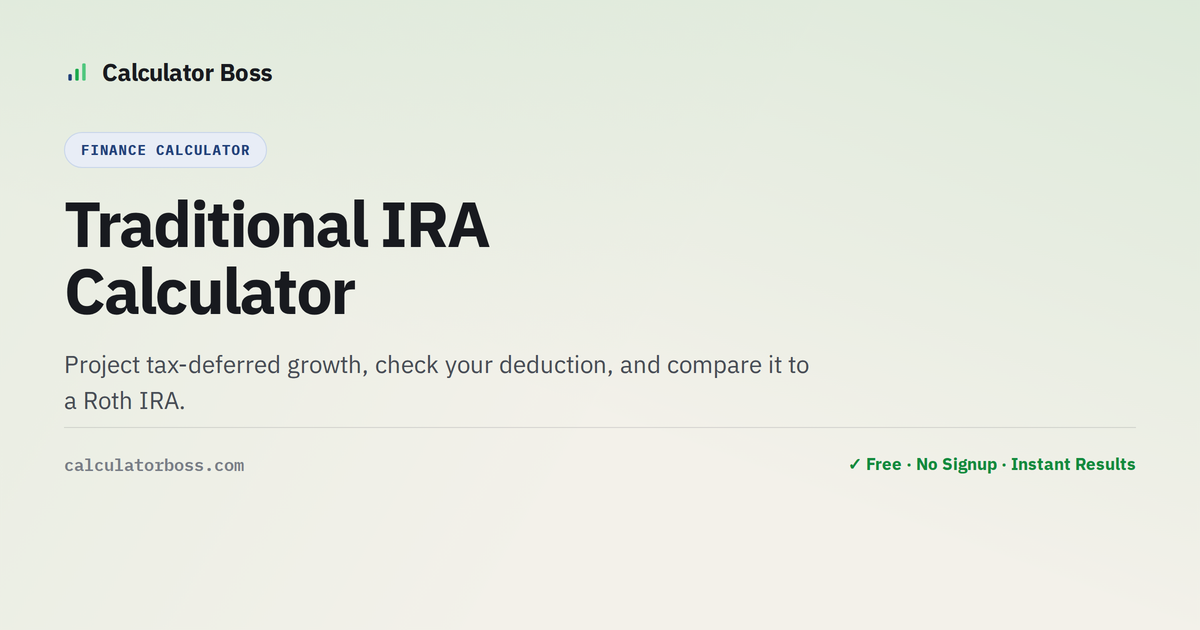
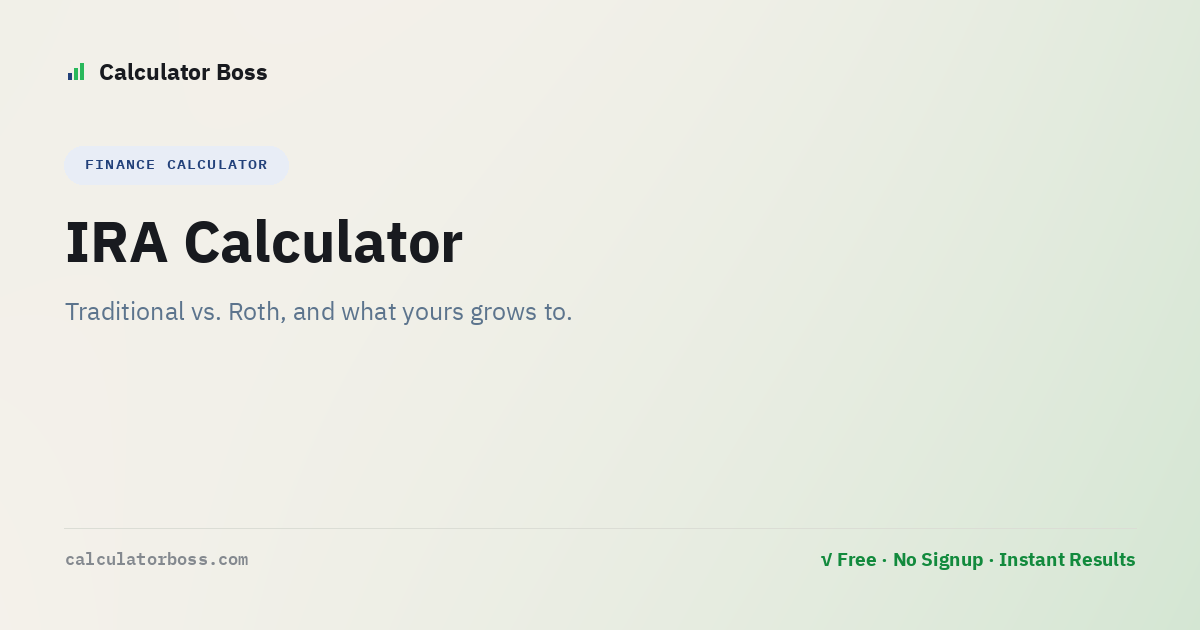
IRA Calculator: settle the naming, which was inconsistent in five places
The page itself checks out - protected block byte-identical, tags balanced,
three valid schema blocks, FAQ 6/6 exact, both tabs computing, zero console
errors and no overflow on desktop and mobile, jsPDF still lazy.

But the name was not consistent. The URL is /ira-calculator/, the search
index said 'IRA Calculator', the title, H1 and visible breadcrumb said
'Traditional IRA Calculator', the BreadcrumbList schema said just 'IRA', and
llms.txt said 'Traditional IRA Calculator'.

Settled on 'IRA Calculator'. calculator.net names this same slug that way and
keeps a separate Roth page, matching this site's structure; the URL and the
search index already used it; and the page covers both account types across
its two tabs, so 'Traditional' understated it and clashed with the pending
/roth-ira-calculator/ page. The title blends all three terms rather than
picking one, and drops from 72 to 62 characters, which Google was truncating.

Renamed in title, og:title, twitter:title, H1, visible breadcrumb,
BreadcrumbList schema, WebApplication name and description, the PDF header
and llms.txt. The visible and schema breadcrumbs now match exactly - that
mismatch is the same class of defect the guide flags for FAQPage and it is
worth checking on BreadcrumbList too. Schema also gains dateModified,
inLanguage, publisher and featureList. New OG image.

diff --git a/ira-calculator/index.html b/ira-calculator/index.html
@@ -7,7 +7,7 @@
 
   gtag('config', 'G-6S04GMEMEJ');
 </script>
-<meta charSet="utf-8"/><link rel="preconnect" href="/" crossorigin=""/><meta name="viewport" content="width=device-width, initial-scale=1"/><title>Traditional IRA Calculator — Project Your Tax-Deferred Retirement Growth</title><meta name="description" content="See how your Traditional IRA grows tax-deferred, check your 2026 deduction eligibility, and compare it to a Roth IRA side by side. Free, instant, no signup."/><meta name="author" content="CalculatorBoss"/><meta name="keywords" content="traditional ira calculator,ira calculator,ira contribution calculator,ira deduction calculator,traditional vs roth ira calculator,ira growth calculator"/><meta name="creator" content="CalculatorBoss"/><meta name="publisher" content="CalculatorBoss"/><meta name="robots" content="index, follow"/><meta name="googlebot" content="index, follow, max-video-preview:-1, max-image-preview:large, max-snippet:-1"/><link rel="canonical" href="https://calculatorboss.com/ira-calculator/"/><meta property="og:title" content="Traditional IRA Calculator — Project Your Tax-Deferred Retirement Growth"/><meta property="og:description" content="See how your Traditional IRA grows tax-deferred, check your 2026 deduction eligibility, and compare it to a Roth IRA side by side. Free, instant, no signup."/><meta property="og:url" content="https://calculatorboss.com/ira-calculator/"/><meta property="og:type" content="website"/><meta property="og:image" content="https://calculatorboss.com/og/ira-calculator.png"/><meta property="og:image:width" content="1200"/><meta property="og:image:height" content="630"/><meta name="twitter:card" content="summary_large_image"/><meta name="twitter:title" content="Traditional IRA Calculator — Project Your Tax-Deferred Retirement Growth"/><meta name="twitter:description" content="See how your Traditional IRA grows tax-deferred, check your 2026 deduction eligibility, and compare it to a Roth IRA side by side. Free, instant, no signup."/><link rel="icon" href="/favicon.svg" type="image/svg+xml"><link rel="icon" href="/favicon.ico" sizes="any"><link rel="apple-touch-icon" href="/favicon-180.png"><link rel="stylesheet" href="/_next/static/chunks/27gnqssi3_kmiv2.css" data-precedence="next"/><link rel="preload" as="script" fetchPriority="low" href="/_next/static/chunks/36m08sdd6fi_4.js"/><link rel="preconnect" href="https://fonts.gstatic.com" crossorigin>
+<meta charSet="utf-8"/><link rel="preconnect" href="/" crossorigin=""/><meta name="viewport" content="width=device-width, initial-scale=1"/><title>IRA Calculator — Traditional vs. Roth, and What Yours Grows To</title><meta name="description" content="Free IRA calculator: project tax-deferred growth to retirement, check your 2026 deduction eligibility, and compare Traditional vs. Roth side by side."/><meta name="author" content="CalculatorBoss"/><meta name="keywords" content="traditional ira calculator,ira calculator,ira contribution calculator,ira deduction calculator,traditional vs roth ira calculator,ira growth calculator"/><meta name="creator" content="CalculatorBoss"/><meta name="publisher" content="CalculatorBoss"/><meta name="robots" content="index, follow"/><meta name="googlebot" content="index, follow, max-video-preview:-1, max-image-preview:large, max-snippet:-1"/><link rel="canonical" href="https://calculatorboss.com/ira-calculator/"/><meta property="og:title" content="IRA Calculator — Traditional vs. Roth, and What Yours Grows To"/><meta property="og:description" content="Free IRA calculator: project tax-deferred growth to retirement, check your 2026 deduction eligibility, and compare Traditional vs. Roth side by side."/><meta property="og:url" content="https://calculatorboss.com/ira-calculator/"/><meta property="og:type" content="website"/><meta property="og:image" content="https://calculatorboss.com/og/ira-calculator.png"/><meta property="og:image:width" content="1200"/><meta property="og:image:height" content="630"/><meta name="twitter:card" content="summary_large_image"/><meta name="twitter:title" content="IRA Calculator — Traditional vs. Roth, and What Yours Grows To"/><meta name="twitter:description" content="Free IRA calculator: project tax-deferred growth to retirement, check your 2026 deduction eligibility, and compare Traditional vs. Roth side by side."/><link rel="icon" href="/favicon.svg" type="image/svg+xml"><link rel="icon" href="/favicon.ico" sizes="any"><link rel="apple-touch-icon" href="/favicon-180.png"><link rel="stylesheet" href="/_next/static/chunks/27gnqssi3_kmiv2.css" data-precedence="next"/><link rel="preload" as="script" fetchPriority="low" href="/_next/static/chunks/36m08sdd6fi_4.js"/><link rel="preconnect" href="https://fonts.gstatic.com" crossorigin>
 <link href="https://fonts.googleapis.com/css2?family=IBM+Plex+Sans:wght@400;500;600;700&family=IBM+Plex+Mono:wght@400;500;600;700&display=swap" rel="stylesheet">
 <style>
   /* ============================================================
@@ -275,7 +275,7 @@
   }
   @media(prefers-reduced-motion:reduce){*{animation:none!important;transition:none!important}.reveal{opacity:1;transform:none}}
 </style>
-<script type="application/ld+json">{"@context":"https://schema.org","@type":"BreadcrumbList","itemListElement":[{"@type":"ListItem","position":1,"name":"Home","item":"https://calculatorboss.com/"},{"@type":"ListItem","position":2,"name":"Finance","item":"https://calculatorboss.com/all-calculators/"},{"@type":"ListItem","position":3,"name":"IRA","item":"https://calculatorboss.com/ira-calculator/"}]}</script></head><body class="min-h-full flex flex-col antialiased" style="background:var(--bg)"><div hidden=""><!--$--><!--/$--></div><header>
+<script type="application/ld+json">{"@context":"https://schema.org","@type":"BreadcrumbList","itemListElement":[{"@type":"ListItem","position":1,"name":"Home","item":"https://calculatorboss.com/"},{"@type":"ListItem","position":2,"name":"Finance","item":"https://calculatorboss.com/all-calculators/"},{"@type":"ListItem","position":3,"name":"IRA Calculator","item":"https://calculatorboss.com/ira-calculator/"}]}</script></head><body class="min-h-full flex flex-col antialiased" style="background:var(--bg)"><div hidden=""><!--$--><!--/$--></div><header>
   <div class="wrap nav">
     <a class="brand" href="/">
       <span class="logo">
@@ -349,7 +349,7 @@
     window.addEventListener('resize', function(){ if(window.innerWidth > 900 && isOpen()) closeMenu(); });
   })();
   </script>
-</header><main class="flex-1" role="main"><div class="px-4 sm:px-6 py-5 sm:py-6 mx-auto" style="max-width:1160px"><script type="application/ld+json">{"@context":"https://schema.org","@type":"FAQPage","mainEntity":[{"@type":"Question","name":"What's the 2026 IRA contribution limit?","acceptedAnswer":{"@type":"Answer","text":"$7,500 for 2026, or $8,600 including the $1,100 catch-up if you're 50 or older. This is a combined limit across all your Traditional and Roth IRAs together, not a separate limit for each."}},{"@type":"Question","name":"Are Traditional IRA contributions always tax-deductible?","acceptedAnswer":{"@type":"Answer","text":"Not always. If neither you nor your spouse has access to a workplace retirement plan, your contribution is fully deductible no matter your income. If you (or your spouse) are covered by a workplace plan, the deduction phases out over a specific income range that depends on your filing status — above that range you can still contribute, just without the deduction."}},{"@type":"Question","name":"What's the difference between a Traditional IRA and a 401(k)?","acceptedAnswer":{"@type":"Answer","text":"A 401(k) is employer-sponsored, has a much higher contribution limit ($24,500 for 2026), and its investment menu is chosen by your employer. A Traditional IRA is opened independently at any broker, has a lower contribution limit, but usually offers far more investment choice — and the two aren't mutually exclusive; many people use both."}},{"@type":"Question","name":"Traditional IRA or Roth IRA — which is better for me?","acceptedAnswer":{"@type":"Answer","text":"It comes down to whether your tax rate is higher today or is likely to be higher in retirement. If you expect to be in a lower tax bracket in retirement than you are now, Traditional generally comes out ahead. If you expect a similar or higher bracket in retirement, Roth generally wins. Since nobody can know future tax law with certainty, many people split contributions between both to hedge that risk."}},{"@type":"Question","name":"What happens when I withdraw from a Traditional IRA in retirement?","acceptedAnswer":{"@type":"Answer","text":"Withdrawals are taxed as ordinary income, since the contributions (if deducted) and all the growth along the way were never taxed. This is different from a Roth IRA, where qualified withdrawals are entirely tax-free."}},{"@type":"Question","name":"When do I have to start taking money out (RMDs)?","acceptedAnswer":{"@type":"Answer","text":"Required Minimum Distributions start at age 73 if you were born between 1951 and 1959, or age 75 if you were born in 1960 or later. The amount is your prior year-end balance divided by an IRS life-expectancy divisor that shrinks every year, so the required percentage rises with age. Roth IRAs have no RMDs during the original owner's lifetime."}}]}</script><script type="application/ld+json">{"@context":"https://schema.org","@type":"WebApplication","name":"Traditional IRA Calculator","url":"https://calculatorboss.com/ira-calculator","applicationCategory":"FinanceApplication","operatingSystem":"Any","offers":{"@type":"Offer","price":"0","priceCurrency":"USD"},"description":"Free Traditional IRA calculator that projects tax-deferred growth to retirement, checks 2026 deduction eligibility by income and filing status, and compares after-tax outcomes against a Roth IRA."}</script><style>.crumb{display:flex;align-items:center;gap:8px;font-size:12.5px;color:var(--muted);margin:0 0 10px;flex-wrap:wrap}.crumb a{color:var(--muted);transition:.2s}.crumb a:hover{color:var(--ink)}.crumb .sep{color:var(--ink-faint)}.crumb .cur{color:var(--ink-soft);font-weight:500}</style><nav class="crumb" aria-label="Breadcrumb"><a href="/">Home</a><span class="sep">/</span><a href="/all-calculators/#fin">Finance</a><span class="sep">/</span><span class="cur">Traditional IRA Calculator</span></nav><h1 class="font-display font-bold text-3xl sm:text-4xl tracking-tight text-ink mb-3">Traditional IRA Calculator</h1><p class="text-ink-soft text-lg max-w-2xl mb-6">Project tax-deferred growth to retirement, check this year's deduction eligibility, and see how a Traditional IRA stacks up against a Roth.</p><style>
+</header><main class="flex-1" role="main"><div class="px-4 sm:px-6 py-5 sm:py-6 mx-auto" style="max-width:1160px"><script type="application/ld+json">{"@context":"https://schema.org","@type":"FAQPage","mainEntity":[{"@type":"Question","name":"What's the 2026 IRA contribution limit?","acceptedAnswer":{"@type":"Answer","text":"$7,500 for 2026, or $8,600 including the $1,100 catch-up if you're 50 or older. This is a combined limit across all your Traditional and Roth IRAs together, not a separate limit for each."}},{"@type":"Question","name":"Are Traditional IRA contributions always tax-deductible?","acceptedAnswer":{"@type":"Answer","text":"Not always. If neither you nor your spouse has access to a workplace retirement plan, your contribution is fully deductible no matter your income. If you (or your spouse) are covered by a workplace plan, the deduction phases out over a specific income range that depends on your filing status — above that range you can still contribute, just without the deduction."}},{"@type":"Question","name":"What's the difference between a Traditional IRA and a 401(k)?","acceptedAnswer":{"@type":"Answer","text":"A 401(k) is employer-sponsored, has a much higher contribution limit ($24,500 for 2026), and its investment menu is chosen by your employer. A Traditional IRA is opened independently at any broker, has a lower contribution limit, but usually offers far more investment choice — and the two aren't mutually exclusive; many people use both."}},{"@type":"Question","name":"Traditional IRA or Roth IRA — which is better for me?","acceptedAnswer":{"@type":"Answer","text":"It comes down to whether your tax rate is higher today or is likely to be higher in retirement. If you expect to be in a lower tax bracket in retirement than you are now, Traditional generally comes out ahead. If you expect a similar or higher bracket in retirement, Roth generally wins. Since nobody can know future tax law with certainty, many people split contributions between both to hedge that risk."}},{"@type":"Question","name":"What happens when I withdraw from a Traditional IRA in retirement?","acceptedAnswer":{"@type":"Answer","text":"Withdrawals are taxed as ordinary income, since the contributions (if deducted) and all the growth along the way were never taxed. This is different from a Roth IRA, where qualified withdrawals are entirely tax-free."}},{"@type":"Question","name":"When do I have to start taking money out (RMDs)?","acceptedAnswer":{"@type":"Answer","text":"Required Minimum Distributions start at age 73 if you were born between 1951 and 1959, or age 75 if you were born in 1960 or later. The amount is your prior year-end balance divided by an IRS life-expectancy divisor that shrinks every year, so the required percentage rises with age. Roth IRAs have no RMDs during the original owner's lifetime."}}]}</script><script type="application/ld+json">{"@context":"https://schema.org","@type":"WebApplication","name":"IRA Calculator","url":"https://calculatorboss.com/ira-calculator","applicationCategory":"FinanceApplication","operatingSystem":"Any","offers":{"@type":"Offer","price":"0","priceCurrency":"USD"},"description":"Free IRA calculator that projects tax-deferred growth to retirement, checks 2026 deduction eligibility by income and filing status, and compares after-tax outcomes against a Roth IRA.","inLanguage":"en-US","isAccessibleForFree":true,"dateModified":"2026-08-02","featureList":["Traditional IRA growth projection to retirement","2026 contribution and catch-up limits","Traditional deduction eligibility by filing status and MAGI","Traditional vs. Roth after-tax comparison","Year-by-year growth schedule and charts","RMD quick reference using the Uniform Lifetime Table","PDF export"],"publisher":{"@type":"Organization","name":"CalculatorBoss","url":"https://calculatorboss.com/"}}</script><style>.crumb{display:flex;align-items:center;gap:8px;font-size:12.5px;color:var(--muted);margin:0 0 10px;flex-wrap:wrap}.crumb a{color:var(--muted);transition:.2s}.crumb a:hover{color:var(--ink)}.crumb .sep{color:var(--ink-faint)}.crumb .cur{color:var(--ink-soft);font-weight:500}</style><nav class="crumb" aria-label="Breadcrumb"><a href="/">Home</a><span class="sep">/</span><a href="/all-calculators/#fin">Finance</a><span class="sep">/</span><span class="cur">IRA Calculator</span></nav><h1 class="font-display font-bold text-3xl sm:text-4xl tracking-tight text-ink mb-3">IRA Calculator</h1><p class="text-ink-soft text-lg max-w-2xl mb-6">Project a Traditional IRA's tax-deferred growth to retirement, check this year's deduction eligibility, and see how it stacks up against a Roth.</p><style>
 .ira-wrap{width:100%}
 .ira-bar{grid-area:bar;width:100%;padding:14px 16px;text-align:left;color:#fff;font-weight:700;font-size:15px;background:#1E3A5F;border-radius:12px;display:flex;align-items:center;justify-content:space-between;gap:14px;flex-wrap:wrap}
 .ira-bar-text{display:flex;align-items:center;gap:10px}
@@ -1067,7 +1067,7 @@
       var doc = new jsPDFCtor({unit:'pt', format:'letter'});
       var margin=40, y=50;
       doc.setFont('helvetica','bold'); doc.setFontSize(18); doc.setTextColor(30,58,95);
-      doc.text('Traditional IRA Calculator Report', margin, y); y+=18;
+      doc.text('IRA Calculator Report', margin, y); y+=18;
       doc.setFont('helvetica','normal'); doc.setFontSize(9); doc.setTextColor(120,120,120);
       doc.text('Generated by CalculatorBoss.com  ·  '+new Date().toLocaleDateString('en-US',{year:'numeric',month:'long',day:'numeric'}), margin, y);
       y+=22;

diff --git a/PROGRESS.md b/PROGRESS.md
@@ -3506,6 +3506,54 @@ assume this exact order still holds after a few weeks of new data.
   real interest rate) in original wording, plus sections they lack on reading
   the amortization schedule and what the tool leaves out.
 
+- **IRA Calculator: recheck and rename** (Aug 2, 2026, user asked whether the
+  page was correctly named).
+
+  **Health check first — the page itself is fine.** Protected style block
+  byte-identical, 109/109 divs, three valid JSON-LD blocks, FAQ 6/6 exact
+  against the visible copy, all 17 outbound links resolve, OG image present,
+  both tabs compute in a real browser (Grow My IRA returns $1,196,925 and
+  Traditional vs. Roth returns "Traditional wins by $103,678"), 35-row
+  schedule, zero console errors and no sideways scroll at 1280 and 390, jsPDF
+  still absent on load. Nothing was broken.
+
+  **The naming was genuinely inconsistent, in five places at once.** The URL is
+  `/ira-calculator/`, `calculators-index.json` (which drives the on-site search
+  box) said "IRA Calculator", the title, H1 and visible breadcrumb said
+  "Traditional IRA Calculator", the BreadcrumbList schema said just "IRA", and
+  `llms.txt` said "Traditional IRA Calculator". The schema/visible breadcrumb
+  mismatch is the same class of defect the guide already warns about for
+  FAQPage, and it applies to BreadcrumbList too — worth checking on every page,
+  not just the FAQ block.
+
+  **Settled on "IRA Calculator"**, on evidence rather than preference:
+  calculator.net names this exact slug "IRA Calculator" and keeps a separate
+  Roth IRA Calculator, which is the same two-page structure this site has; the
+  URL and the search index already used the generic name; and the page covers
+  *both* account types across its two tabs, so "Traditional" understated it and
+  invited confusion with the pending `/roth-ira-calculator/` page. The higher
+  volume also sits with the generic head term. Title now blends all three terms
+  rather than picking one, per section 8: **"IRA Calculator — Traditional vs.
+  Roth, and What Yours Grows To"** (62 chars, down from 72, which Google was
+  truncating). Meta description rewritten to 149 characters and leading with
+  both account types.
+
+  Renamed consistently in title, og:title, twitter:title, H1, visible
+  breadcrumb, BreadcrumbList schema, WebApplication name and description, the
+  PDF report header, and `llms.txt`. Verified afterwards that the visible
+  breadcrumb and the schema breadcrumb are now the same string. WebApplication
+  schema also brought in line with the pages rebuilt today (`dateModified`,
+  `inLanguage`, `isAccessibleForFree`, `publisher`, `featureList`). New OG image
+  with the corrected name, bands within 2 px of the template.
+
+  **Note for whoever does queue #5**: `/roth-ira-calculator/` is still a
+  484-line stub, and its title is still the generic `X | CalculatorBoss`
+  pattern. Now that `/ira-calculator/` is explicitly the Traditional-plus-
+  comparison page, the Roth page should be scoped narrowly to Roth-specific
+  mechanics — after-tax contributions, the income phase-out, the five-year
+  rule, no RMDs — rather than repeating the comparison, or the two will
+  compete for the same queries.
+
 ## Standing notes for next session
 
 - **`llms.txt` is generally stale**, found in passing while fixing the crypto-
